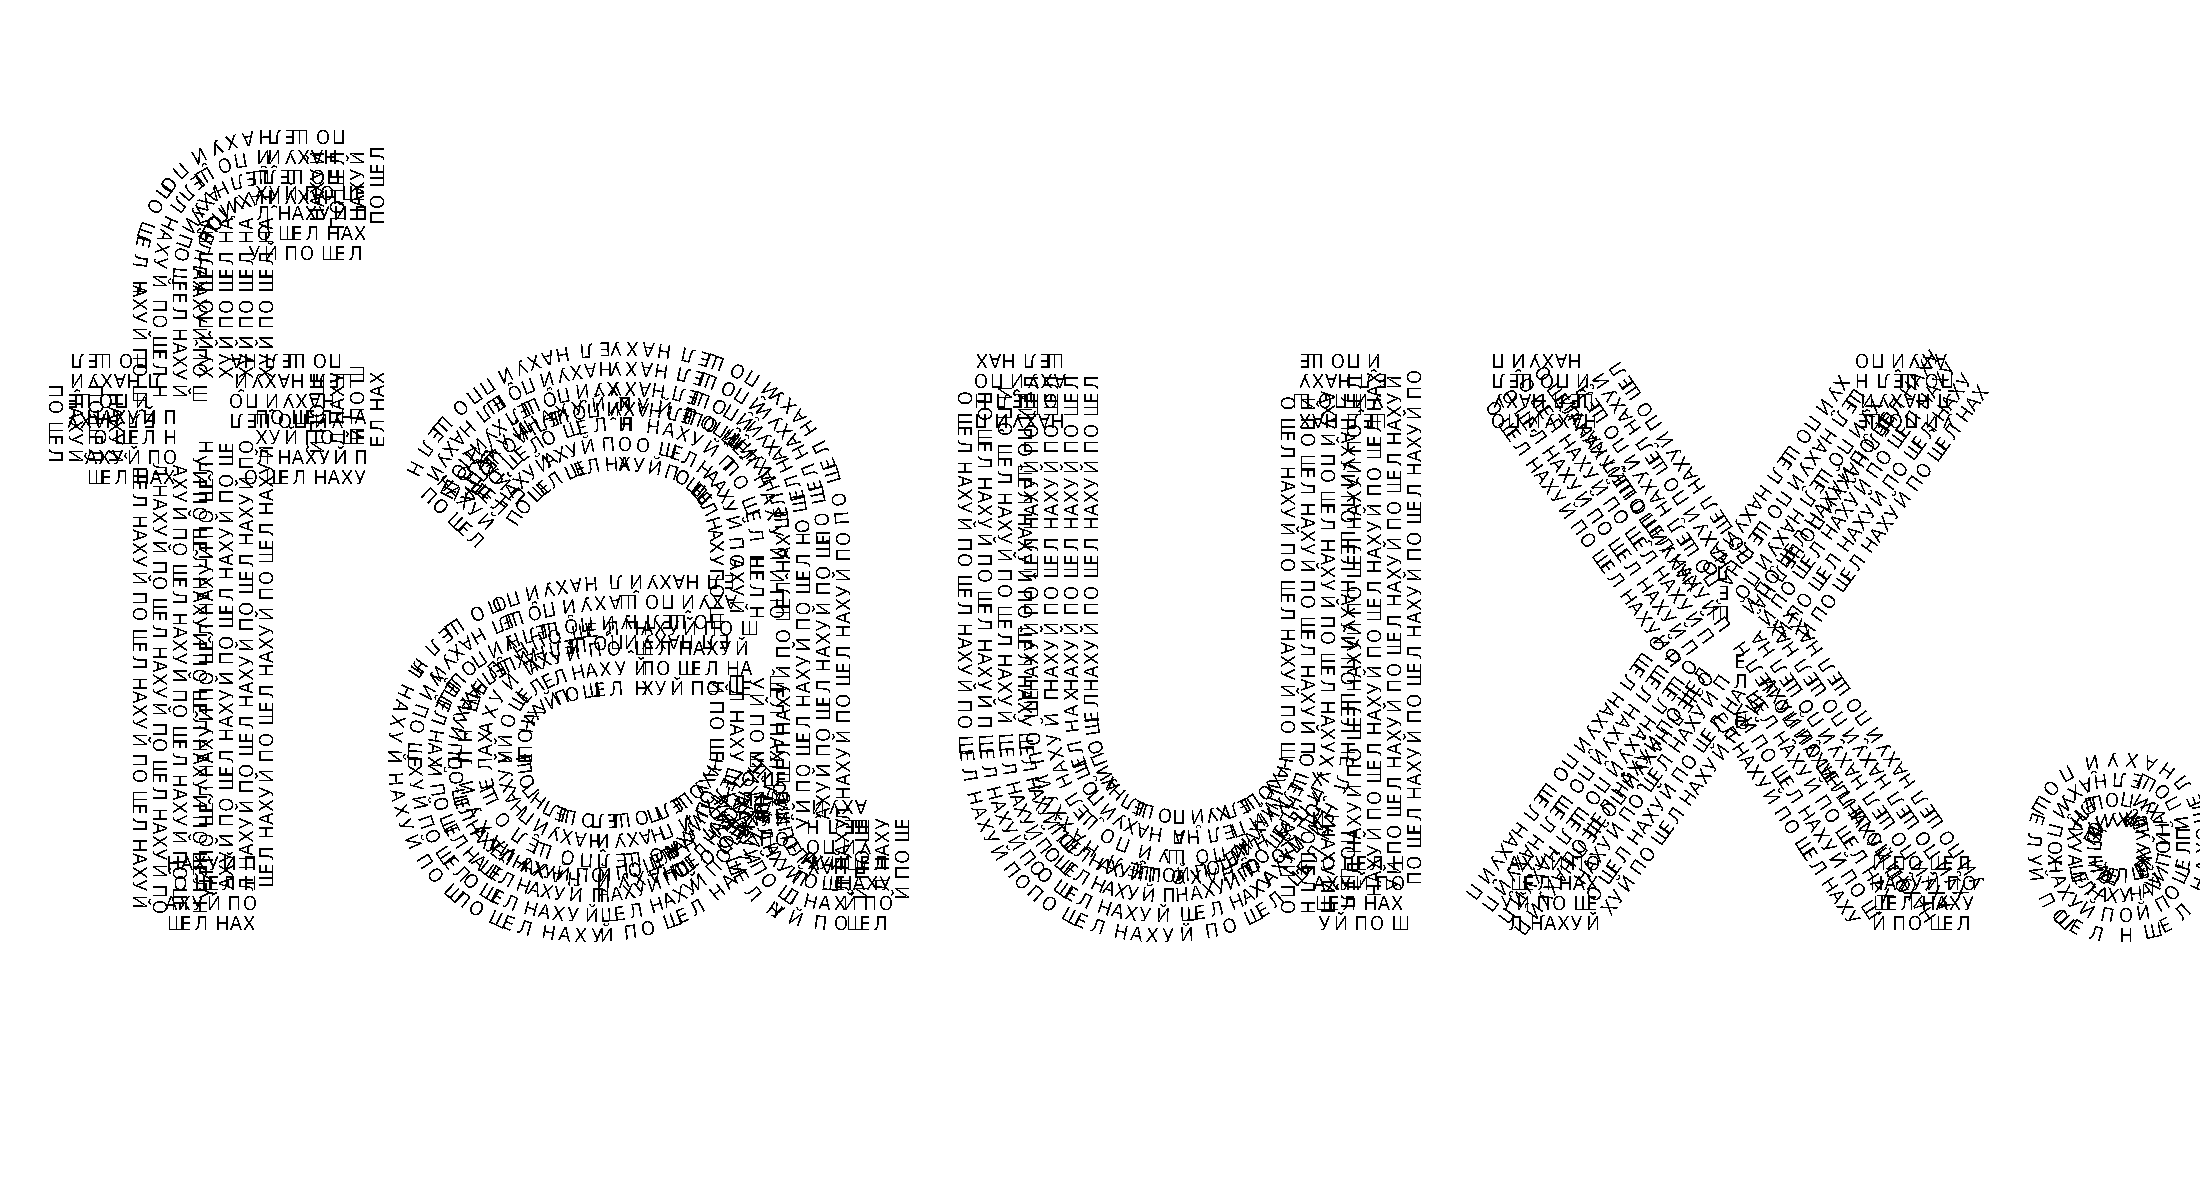
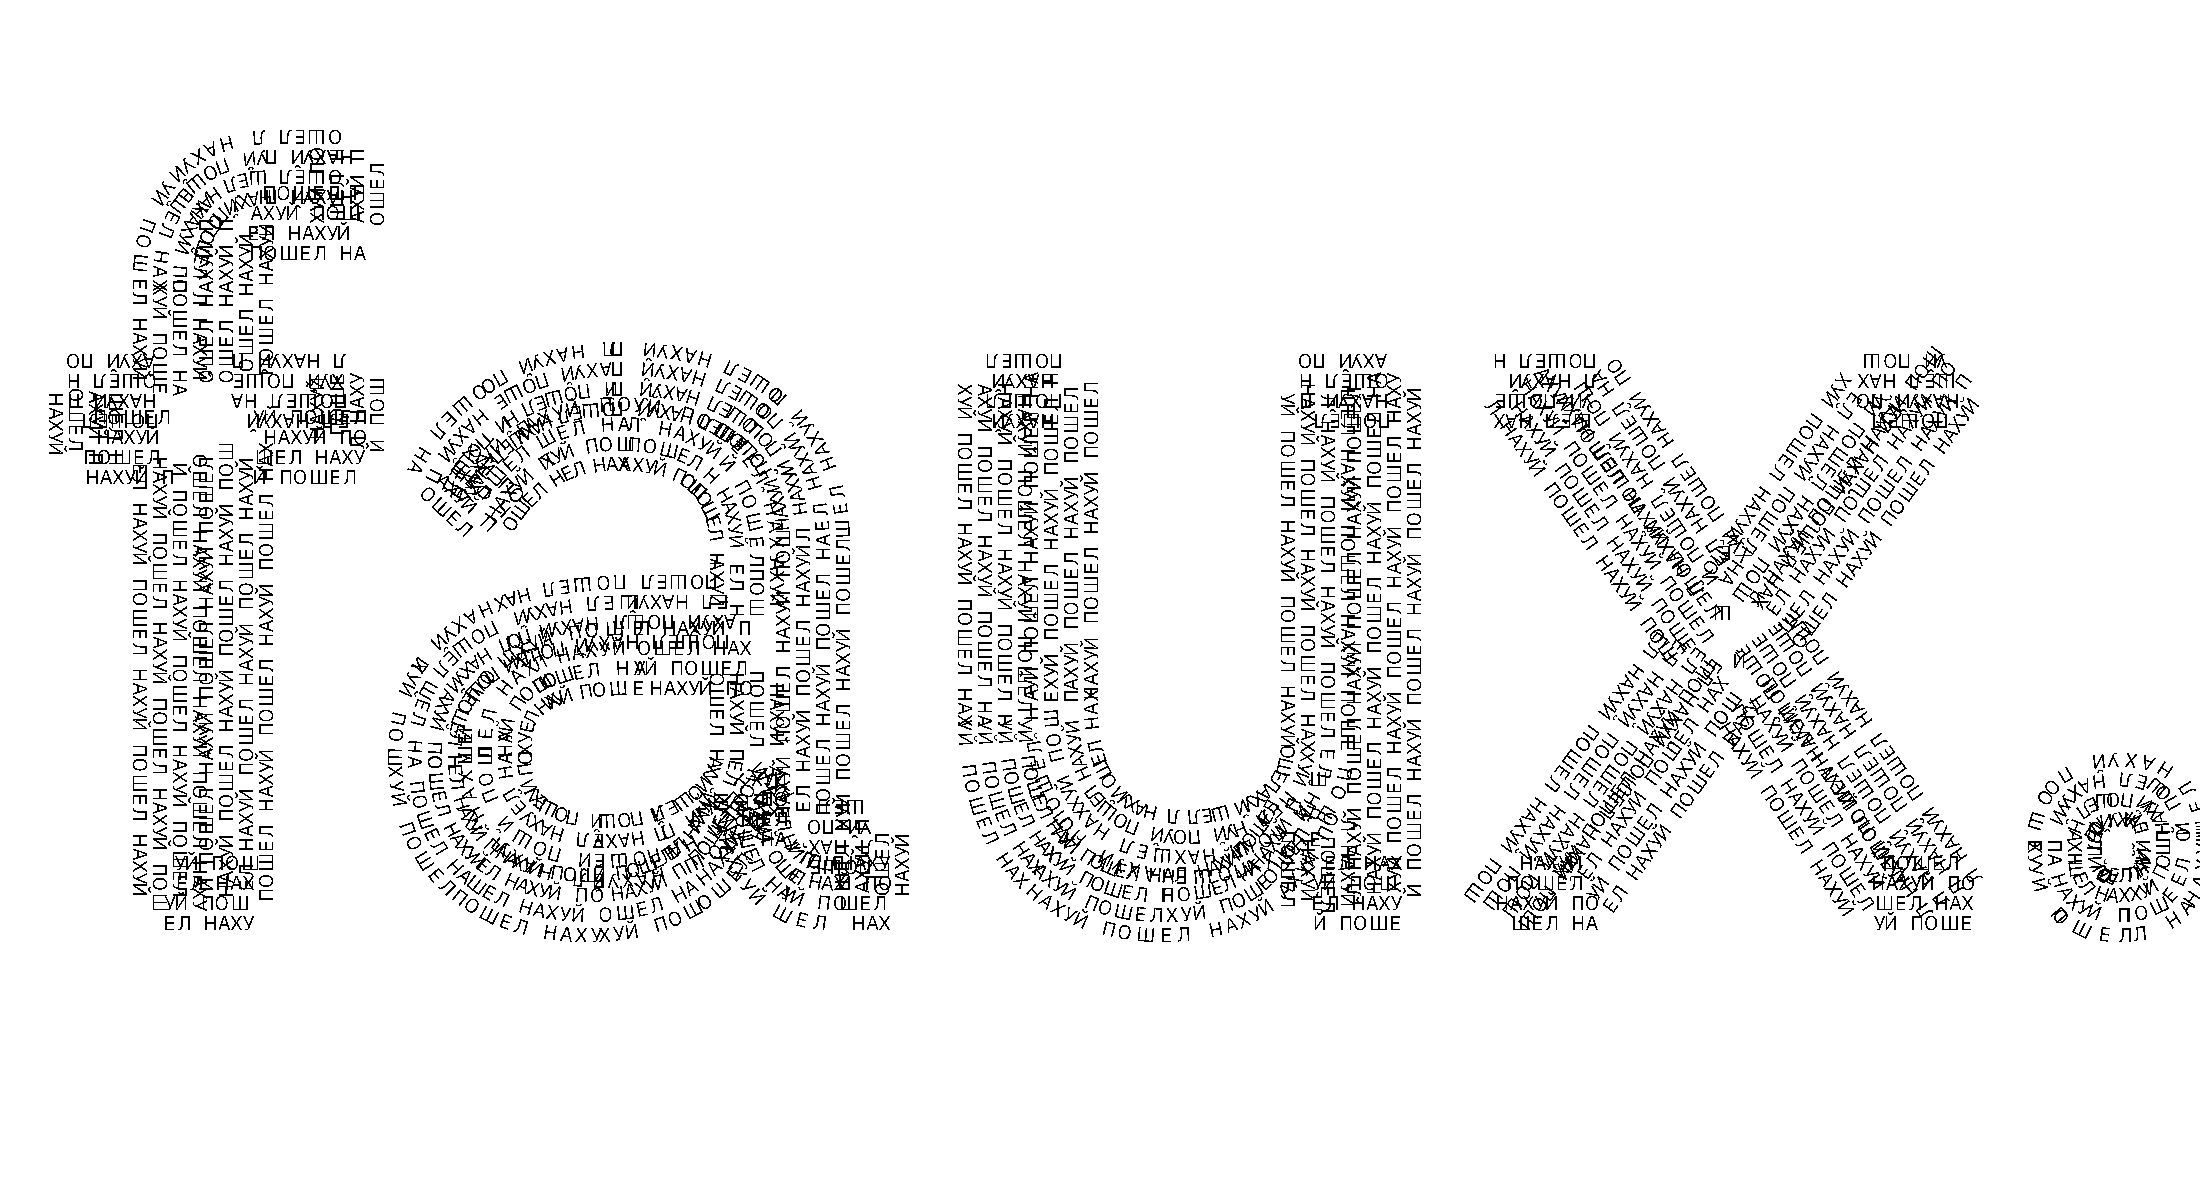
add askii rasterizer

Changed region(s): [[0.0309, 0.0925, 0.6491, 0.8017], [0.68, 0.2775, 0.8964, 0.7708], [0.9273, 0.6167, 1.0, 0.7708]]

diff --git a/renderer/text.go b/renderer/text.go
@@ -110,12 +110,32 @@ func (tr *TextRenderer) renderFillerGlyph(r rune, pos geom.Point, tangent geom.P
 		return 0
 	}
 
+	// Calculate bounding box to find visual bounds
+	minX := math.MaxFloat64
+	maxX := -math.MaxFloat64
+	for _, seg := range segments {
+		for _, p := range seg.Points {
+			if p.X < minX {
+				minX = p.X
+			}
+			if p.X > maxX {
+				maxX = p.X
+			}
+		}
+	}
+	if minX == math.MaxFloat64 {
+		minX = 0
+		maxX = advance
+	}
+
 	// Rotate to follow tangent, +π to flip right-side up since we traverse paths backwards
 	angle := math.Atan2(tangent.Y, tangent.X) + math.Pi
 
 	for _, seg := range segments {
 		transformedPoints := make([]geom.Point, len(seg.Points))
 		for i, p := range seg.Points {
+			// Shift to remove left side bearing
+			p.X -= minX
 			rotated := p.Rotate(angle)
 			transformedPoints[i] = rotated.Add(pos)
 		}
@@ -130,7 +150,8 @@ func (tr *TextRenderer) renderFillerGlyph(r rune, pos geom.Point, tangent geom.P
 		}
 	}
 
-	return advance
+	// Return actual visual width of the glyph
+	return maxX - minX
 }
 
 // RenderTextWithFiller renders main text using filler text along the curves

diff --git a/main.go b/main.go
@@ -29,7 +29,7 @@ func main() {
 	}
 
 	mainText := os.Args[1]
-	fillerText := strings.Trim(os.Args[2], " ") + " "
+	fillerText := strings.Trim(os.Args[2], " ") + "   "
 	fillScale, err := strconv.ParseFloat(os.Args[3], 64)
 	if err != nil {
 		log.Fatalf("invalid fill_scale: %v", err)
